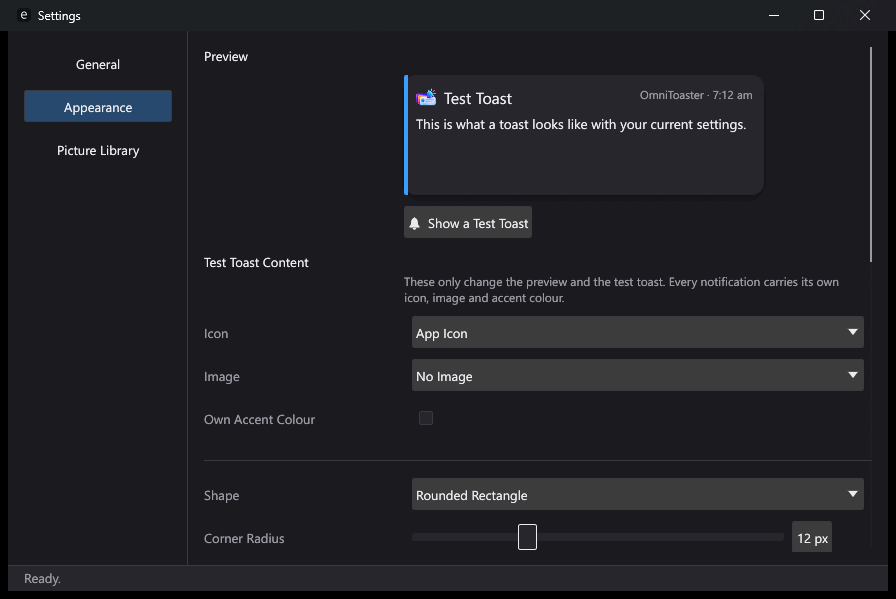
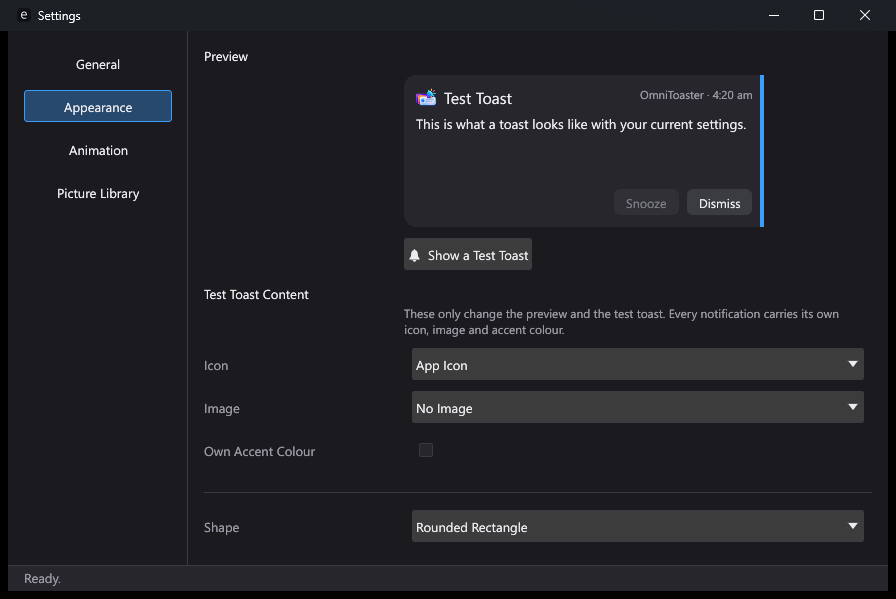
docs: close out Phase 3's paperwork - screenshots, GIFs, CHECKLIST
Retake the toast and Appearance screenshots (the action row, the taller
preview), add the glass toast, Settings > Animation in both languages and
the slide and Genie GIFs from a release build; write the Phase 3 rows of
the CHECKLIST with the checks left to the owner named; record what was
checked today in the ledger.

Refs: FEAT-0030, FEAT-0031, FEAT-0032, FEAT-0033, FEAT-0034, FEAT-0035, FEAT-0036, FEAT-0038

diff --git a/docs/TASKS.md b/docs/TASKS.md
@@ -186,7 +186,7 @@ make all three glass kinds from the accent policy's Acrylic.
 - [x] Docs: spec §5 and the viewport paragraph · CHANGELOG · GOTCHAS (in FEAT-0028's commit). README and CHECKLIST: nothing a user sees changed
 
 ### FEAT-0030 · Glass: None, Blur, Acrylic, Mica-like
-- **State:** In-Progress · **Spec:** docs/specs/toast.md §4.2 · **Phase:** 3
+- **State:** Completed · **Spec:** docs/specs/toast.md §4.2 · **Phase:** 3
 - **Branch:** feat/phase-3-glass-animations
 - **Depends on:** FEAT-0029
 - [x] `Glass` in `Style` (`none` by default, kebab-case in `settings.toml`; an unknown value loads as `none` with a warning) and the tint each kind lays over the blur — 45 %, 60 %, 88 %
@@ -197,12 +197,12 @@ make all three glass kinds from the accent policy's Acrylic.
 - [x] Test: the tint per kind; a gradient tints with its first colour; glass on the Rectangle only; glass turns the shadow off; settings round-trip; an unknown kind loads as None and keeps the rest; text colour under glass follows the first colour
 - [x] Gate: fmt · clippy -D warnings · test --workspace --locked -j 4 (224 passed) · deny check · --self-test
 - [x] App: `--data-dir ./tmp-data` — each kind over the striped window and over the desktop, in Dark and Light toast colours; a Rectangle with glass shows no shadow; Malay labels fit
-- [ ] Docs: spec · README · CHANGELOG · CHECKLIST · GOTCHAS
-- **Notes:** App, checked 2026-11-18 over a window of red and blue stripes (another process): Rectangle Blur, Acrylic and Mica-like each blur, graded, in a dark and a light toast colour; Rounded Rectangle and Pill stay solid with clean corners; the Rectangle with glass has no shadow; at 70 % opacity the blur fades too and the sharp stripes show faintly (spec §4.2); no glass warnings in the log. Over the ordinary desktop (a dark app window): Acrylic shows the blurred window, a light Blur toast keeps dark readable text. Appearance pane in Malay (Dark) and English (Light): the Glass row lines up, the dropdown is greyed with its hint on a rounded rectangle, both hints and the shadow's glass hint wrap inside the pane; the Blur preview's text reads in both themes. **Not checked:** the solid fallback after a refusal, which this Windows never gave; Windows 10; DPI above 100 %. Over OmniToaster's own settings window the blur samples black (GOTCHAS). Docs: spec, ADR-016 amendment, README and README.ms (the latter once FEAT-0037 created it, 2026-11-18), CHANGELOG and GOTCHAS done; the Docs box stays open because CHECKLIST moves at the end of the phase.
+- [x] Docs: spec · README · CHANGELOG · CHECKLIST · GOTCHAS
+- **Notes:** App, checked 2026-11-18 over a window of red and blue stripes (another process): Rectangle Blur, Acrylic and Mica-like each blur, graded, in a dark and a light toast colour; Rounded Rectangle and Pill stay solid with clean corners; the Rectangle with glass has no shadow; at 70 % opacity the blur fades too and the sharp stripes show faintly (spec §4.2); no glass warnings in the log. Over the ordinary desktop (a dark app window): Acrylic shows the blurred window, a light Blur toast keeps dark readable text. Appearance pane in Malay (Dark) and English (Light): the Glass row lines up, the dropdown is greyed with its hint on a rounded rectangle, both hints and the shadow's glass hint wrap inside the pane; the Blur preview's text reads in both themes. **Not checked:** the solid fallback after a refusal, which this Windows never gave; Windows 10; DPI above 100 %. Over OmniToaster's own settings window the blur samples black (GOTCHAS). Docs: spec, ADR-016 amendment, README and README.ms (the latter once FEAT-0037 created it, 2026-11-18), CHANGELOG and GOTCHAS done; the Docs box stayed open until the CHECKLIST moved at the end of the phase. Screenshots retaken and added when the phase closed, 2026-11-19 (`docs/screenshots/README.md`), and the CHECKLIST's Phase 3 rows written. `toast-glass.png` is a Rectangle with Acrylic over stripes.
 - **Owner decisions (2026-11-18):** glass for the Rectangle only; Blur at 45 % instead of "almost none".
 
 ### FEAT-0031 · The animation model and the toast timeline
-- **State:** In-Progress · **Spec:** docs/specs/toast.md §5 · **Phase:** 3
+- **State:** Completed · **Spec:** docs/specs/toast.md §5 · **Phase:** 3
 - **Branch:** feat/phase-3-glass-animations
 - **Depends on:** FEAT-0029
 - [x] `Animation` in `ToastSpec` and `Prefs`: in kind, out kind, duration (150–1000 ms, default 350, clamped in the model), easing (linear, ease-out, spring); defaults appear and ease-out; unknown words load as defaults with a warning; shrink to tray is out only
@@ -215,8 +215,8 @@ make all three glass kinds from the accent policy's Acrylic.
 - [x] Test: every stage boundary of the timeline; the countdown excludes the in-animation and hover; a toast dismissed mid-entry leaves from where it is; a toast waits for its window and starts anyway after a second; the stack slots while one leaves; the easing curves at 0, ½ and 1 and the spring's overshoot; the clamp; settings round-trip
 - [x] Gate: fmt · clippy -D warnings · test --workspace --locked -j 4 (234 passed) · deny check · --self-test
 - [x] App: `--data-dir ./tmp-data` — fire a test toast and watch it enter, hold for its whole duration and leave; dismiss one while it enters (done with FEAT-0038's Dismiss, 2026-11-18: dismissed 557 ms and 542 ms into a 1-second entry, each left in the same time, from where it had got to)
-- [ ] Docs: spec · README · CHANGELOG · CHECKLIST · GOTCHAS
-- **Notes:** App, checked 2026-11-18: three toasts over the stripes, 1000 ms linear, captured from 36 ms to 5.8 s — nothing on screen until each window was shaped, then a fade in over a second, three seconds held, a fade out with the stack collapsing toward the edge, then gone; no flash. Frame counts from the log (`--log-level debug`), three toasts, reference machine: **release** 137–444 fps for every in and out, settings window open or minimised; **debug** 62 fps open, 46–48 minimised. CPU: 6% of one core with three toasts held, 1% with none. **Not checked yet:** dismissing a toast while it enters — nothing in the app can dismiss one until FEAT-0038 builds the Dismiss button (the owner's choice, 2026-11-18); the model's own test covers it. The App box waits for that. Hovering does nothing on screen yet: BUG-0009. CHECKLIST moves at the end of the phase; no README change, since the README already lists the animations.
+- [x] Docs: spec · README · CHANGELOG · CHECKLIST · GOTCHAS
+- **Notes:** App, checked 2026-11-18: three toasts over the stripes, 1000 ms linear, captured from 36 ms to 5.8 s — nothing on screen until each window was shaped, then a fade in over a second, three seconds held, a fade out with the stack collapsing toward the edge, then gone; no flash. Frame counts from the log (`--log-level debug`), three toasts, reference machine: **release** 137–444 fps for every in and out, settings window open or minimised; **debug** 62 fps open, 46–48 minimised. CPU: 6% of one core with three toasts held, 1% with none. **Not checked yet:** dismissing a toast while it enters — nothing in the app can dismiss one until FEAT-0038 builds the Dismiss button (the owner's choice, 2026-11-18); the model's own test covers it. The App box waits for that. Hovering does nothing on screen yet: BUG-0009. No README text change, since the README already lists the animations. Screenshots retaken and added when the phase closed, 2026-11-19 (`docs/screenshots/README.md`), and the CHECKLIST's Phase 3 rows written.
 
 ### FEAT-0032 · Slide from right, slide from bottom, drawer, pop out, appear
 - **State:** In-Progress · **Spec:** docs/specs/toast.md §5 · **Phase:** 3
@@ -233,11 +233,11 @@ make all three glass kinds from the accent policy's Acrylic.
 - [x] Test: every effect rests exactly where the toast belongs; at every preset, slides and drawers start hidden, a pop at 30% and the fades at alpha 0; a slide starts beyond the edge and is clipped to the work area at ½; a drawer's shift and visible half for every edge, against a table; a pop's scale at 0 and ½ and every frame of a spring inside the window; only a pop has a margin
 - [x] Gate: fmt · clippy -D warnings · test --workspace --locked -j 4 (248 passed) · deny check · --self-test
 - [ ] App: `--data-dir ./tmp-data` — each in and out at every corner, at 100% and 150% scaling; frame counts in a release build
-- [ ] Docs: spec · README · CHANGELOG · CHECKLIST · GOTCHAS
-- **Notes:** App, checked 2026-11-18 at the default Bottom Right with three toasts, 1-second linear runs (spring for one pop run) captured every 100 ms with the taskbar in frame: slide from right enters from beyond the screen's edge; slide from bottom rises from the taskbar's top edge and never draws over it; the drawer opens out of the right-hand edge and closes back into it; pop grows from small and faint at the centre and shrinks back; appear fades. Clicking where Dismiss rests, while a drawer was still opening, dismissed nothing (the pointer mapped to the body); at rest it dismissed. Release build, three toasts at 350 ms: slide 143–312 fps, drawer 174–361, pop 158–285. **Not checked:** the other eight corners and edges on screen (the preset test covers their geometry), and 150% on screen (GOTCHAS: `--ui-scale`). When three toasts slide in from the same edge together they pass over one another; a single toast does not. A faint white box at the very start of every fade, visible over a light background, predates these effects: BUG-0010.
+- [x] Docs: spec · README · CHANGELOG · CHECKLIST · GOTCHAS
+- **Notes:** App, checked 2026-11-18 at the default Bottom Right with three toasts, 1-second linear runs (spring for one pop run) captured every 100 ms with the taskbar in frame: slide from right enters from beyond the screen's edge; slide from bottom rises from the taskbar's top edge and never draws over it; the drawer opens out of the right-hand edge and closes back into it; pop grows from small and faint at the centre and shrinks back; appear fades. Clicking where Dismiss rests, while a drawer was still opening, dismissed nothing (the pointer mapped to the body); at rest it dismissed. Release build, three toasts at 350 ms: slide 143–312 fps, drawer 174–361, pop 158–285. **Not checked:** the other eight corners and edges on screen (the preset test covers their geometry), and 150% on screen (GOTCHAS: `--ui-scale`). When three toasts slide in from the same edge together they pass over one another; a single toast does not. **2026-11-19, the other eight positions:** each preset run with drawer, three toasts, the toast windows' rectangles read every 40 ms (no screen capture): every one rests inside the work area with the 16-point margin — Top Left 16,16; Top 1740,16; Top Right 3464,16; Left 16,956; Centre 1740,956; Right 3464,956; Bottom Left 16,1896; Bottom 1740,1896; Bottom Right 3464,1896 on a 3840 × 2064 work area — the stack grows away from its edge and glides back into place when the first toast leaves. Which edge a drawer opens from at each preset is the preset test's (`a_drawer_opens_from_the_edge_the_toast_sits_against`); it was seen on screen at Bottom Right only. **The App box stays open for one check this session cannot make: 150% on screen**, which needs Windows' display scaling changed (the owner's). A faint white box at the very start of every fade, visible over a light background, predates these effects: BUG-0010.
 
 ### FEAT-0033 · Dissolve, glow and alpha to solid
-- **State:** In-Progress · **Spec:** docs/specs/toast.md §5 · **Phase:** 3
+- **State:** Completed · **Spec:** docs/specs/toast.md §5 · **Phase:** 3
 - **Branch:** feat/phase-3-glass-animations
 - **Depends on:** FEAT-0031
 - [x] Dissolve: a noise mask that eats or grows the toast, generated once per toast size and cached (`effects::noise_for`); the window's region is cut to the cells that show, joined into runs per row and built in one `ExtCreateRegion` call
@@ -247,9 +247,9 @@ make all three glass kinds from the accent policy's Acrylic.
 - [x] Windows' shadow waits while a halo or a part-solid background needs the window see-through (`Look::shadow_ok`)
 - [x] Test: the noise is made once per grid (the same `Arc`), the cells grow in order, cover the toast at the end and about half at half way, and never overlap; the halo stays inside the window at every frame of a spring, alone and beside a pop, and has settled on arrival; alpha to solid keeps its text and ends at the toast's own opacity; every preset starts each effect hidden or bare
 - [x] Gate: fmt · clippy -D warnings · test --workspace --locked -j 4 (251 passed) · deny check · --self-test
-- [ ] App: `--data-dir ./tmp-data` — each in and out over the striped window, in Dark and Light toast colours; frame counts in a release build
-- [ ] Docs: spec · README · CHANGELOG · CHECKLIST · GOTCHAS
-- **Notes:** App, checked 2026-11-18 with three toasts, 1-second linear runs captured every 100 ms: dissolve builds up grain by grain and comes apart in reverse; glow's blue halo shows around each toast over the Light and the Dark settings window and has gone when it arrives; alpha to solid shows crisp text over a part-solid background, the Rectangle included. Release build, three toasts at 350 ms: dissolve 123–299 fps (56.6 at worst before the cells were joined into runs), glow 146–289, alpha to solid 126–552. **Not checked:** the effects over the stripes in a Light toast colour (the toasts were Dark); the other eight positions on screen.
+- [x] App: `--data-dir ./tmp-data` — each in and out over the striped window, in Dark and Light toast colours; frame counts in a release build
+- [x] Docs: spec · README · CHANGELOG · CHECKLIST · GOTCHAS
+- **Notes:** App, checked 2026-11-18 with three toasts, 1-second linear runs captured every 100 ms: dissolve builds up grain by grain and comes apart in reverse; glow's blue halo shows around each toast over the Light and the Dark settings window and has gone when it arrives; alpha to solid shows crisp text over a part-solid background, the Rectangle included. Release build, three toasts at 350 ms: dissolve 123–299 fps (56.6 at worst before the cells were joined into runs), glow 146–289, alpha to solid 126–552. **2026-11-19, a Light toast colour** (`background` set to near-white in `[toast.style]`), dissolve, glow and alpha to solid captured every ~35 ms over the Light settings window: the text turns dark on the light background, the glow's halo shows in the accent colour and has settled on arrival, dissolve's grains build the light toast, alpha to solid keeps its text crisp while the background comes in; no white box. The light runs were over the Light settings window rather than the stripes. The eight other positions: see FEAT-0032's notes. Screenshots retaken and added when the phase closed, 2026-11-19 (`docs/screenshots/README.md`), and the CHECKLIST's Phase 3 rows written.
 
 ### FEAT-0034 · Genie from bottom, and shrink to tray
 - **State:** In-Progress · **Spec:** docs/specs/toast.md §5 · §12 question 2 · **Phase:** 3
@@ -262,8 +262,8 @@ make all three glass kinds from the accent policy's Acrylic.
 - [x] Test: the bands at t = 0 (all hidden below the work area), ½ (the top band in place, the bottom one narrow) and 1 (no warp, the toast where it belongs); every frame's bands touch with no gap and what shows is inside the window; shrink to tray heads for the icon, or the corner without one, and the window covers that path; at every preset both start hidden; two masks of the same size in different places are told apart
 - [x] Gate: fmt · clippy -D warnings · test --workspace --locked -j 4 (254 passed) · deny check · --self-test
 - [ ] App: `--data-dir ./tmp-data` — Genie in and out at each corner, with the tray icon visible and hidden in the overflow; frame counts in a release build
-- [ ] Docs: spec · README · CHANGELOG · CHECKLIST · GOTCHAS
-- **Notes:** App, checked 2026-11-19 with three toasts at Bottom Right, 1-second linear runs captured every 100 ms: Genie pours each toast out of the bottom edge, top first, and sinks it back on the way out; shrink to tray pours them down and right into the corner and they vanish at the taskbar. Release build, three toasts at 350 ms: Genie in 189–277 fps, shrink to tray out 97–316, twice. Once in three shrink-to-tray runs the toasts showed at full strength for a frame before their fade; the next two runs did not, and plain Appear did not — recorded, not reproduced. **Not checked:** whether Windows gave the tray icon's position or the corner was used, and the icon visible versus in the overflow — that is the owner's taskbar setting, not changed here; the other eight positions on screen.
+- [x] Docs: spec · README · CHANGELOG · CHECKLIST · GOTCHAS
+- **Notes:** App, checked 2026-11-19 with three toasts at Bottom Right, 1-second linear runs captured every 100 ms: Genie pours each toast out of the bottom edge, top first, and sinks it back on the way out; shrink to tray pours them down and right into the corner and they vanish at the taskbar. Release build, three toasts at 350 ms: Genie in 189–277 fps, shrink to tray out 97–316, twice. Once in three shrink-to-tray runs the toasts showed at full strength for a frame before their fade; the next two runs did not, and plain Appear did not — recorded, not reproduced. **Not checked:** whether Windows gave the tray icon's position or the corner was used, and the icon visible versus in the overflow — that is the owner's taskbar setting, not changed here; the other eight positions on screen (placement at every preset: FEAT-0032's notes). **The App box stays open for the owner's check** of shrink to tray with the icon in the tray and in the overflow. Screenshots retaken and added when the phase closed, 2026-11-19 (`docs/screenshots/README.md`), and the CHECKLIST's Phase 3 rows written. `anim-genie.gif` is Genie from bottom, release build.
 
 ### FEAT-0035 · Reduced motion and the 30 fps fallback
 - **State:** In-Progress · **Spec:** docs/specs/toast.md §5 · **Phase:** 3
@@ -275,11 +275,11 @@ make all three glass kinds from the accent policy's Acrylic.
 - [x] Test: the fallback triggers on a steady series of 50 ms frames and not on one 200 ms frame among 16 ms ones; the next toast starts as a fade and the one after does not; the floor forces it; reduced motion — Windows' or the setting — maps every kind to a fade, and neither leaves the toast's own effect; Windows answers the query
 - [x] Gate: fmt · clippy -D warnings · test --workspace --locked -j 4 (259 passed) · deny check · --self-test
 - [ ] App: `--data-dir ./tmp-data` — Windows' setting off and on, watching a toast; the fallback forced, watching a toast and reading the log
-- [ ] Docs: spec · README · CHANGELOG · CHECKLIST · GOTCHAS
-- **Notes:** App, checked 2026-11-19 with slide from right: `--reduce-motion` — the toasts fade in place; `--slow-frames` — they start to slide in, then finish as a fade where they rest, and the log names each with "fell below 30 fps … frame_ms=57". The debug build also triggered the real fallback on its own in one run, at 28.8 fps. **Not checked:** turning Windows' own "Show animations" off and on — that is a system setting this session does not change; `--reduce-motion` stands in for it, and the platform test shows Windows answers the query. The App box stays open for the owner's check of that switch. A full-strength flash on a toast's first visible frame, seen in one of these runs, is BUG-0012.
+- [x] Docs: spec · README · CHANGELOG · CHECKLIST · GOTCHAS
+- **Notes:** App, checked 2026-11-19 with slide from right: `--reduce-motion` — the toasts fade in place; `--slow-frames` — they start to slide in, then finish as a fade where they rest, and the log names each with "fell below 30 fps … frame_ms=57". The debug build also triggered the real fallback on its own in one run, at 28.8 fps. **Not checked:** turning Windows' own "Show animations" off and on — that is a system setting this session does not change; `--reduce-motion` stands in for it, and the platform test shows Windows answers the query. The App box stays open for the owner's check of that switch. Screenshots retaken and added when the phase closed, 2026-11-19 (`docs/screenshots/README.md`), and the CHECKLIST's Phase 3 rows written. A debug build under a capture loop fell back on its own again on 2026-11-19 (28.2 fps, logged), which is why the GIFs were recorded from a release build (GOTCHAS, Testing). A full-strength flash on a toast's first visible frame, seen in one of these runs, is BUG-0012.
 
 ### FEAT-0036 · Settings ▸ Animation
-- **State:** In-Progress · **Spec:** docs/04-ui-design.md · docs/specs/toast.md §5 · **Phase:** 3
+- **State:** Completed · **Spec:** docs/04-ui-design.md · docs/specs/toast.md §5 · **Phase:** 3
 - **Branch:** feat/phase-3-glass-animations
 - **Depends on:** FEAT-0031
 - [x] The pane the UI design names (`ot_ui::animation::controls`, `Section::Animation`): Animation In, Animation Out, Duration (a slider, 150–1000 ms in steps of 10), Easing, and Reduce Motion, with a line under it saying whether Windows' own "Show animations" is on, or that every animation fades; Windows' setting re-read every five seconds for the pane as well as for the toasts
@@ -287,9 +287,9 @@ make all three glass kinds from the accent policy's Acrylic.
 - [x] Every label a Fluent key in both languages, with a translator comment each — 9 pane keys, 10 effects, 3 easings — laid out for the longest Malay string; the pane saves when the pointer is released, as Appearance does
 - [x] Test: the layout test lays the Animation controls out with Appearance's, in English, Malay and the pseudo-locale, at the default and the narrow width, at 100%, 150% and 200% — nothing runs past the pane; settings round-trip with every animation field; every key is in both catalogues
 - [x] Gate: fmt · clippy -D warnings · test --workspace --locked -j 4 (259 passed) · deny check · --self-test
-- [ ] App: `--data-dir ./tmp-data` — choose each animation and press Play, in both languages and all three themes; the narrow window
-- [ ] Docs: spec · README · CHANGELOG · CHECKLIST · GOTCHAS
-- **Notes:** App, checked 2026-11-19: the pane in English and Dark, in Malay and Light with Reduce Motion ticked and Jin dari Bawah chosen, and in Malay and Dark at the 560-pixel minimum, where each label stacks above its field and the Windows hint wraps; every row on one middle line; the ▶ glyph seen drawn. Play with Slide from Right fired a test toast that was caught mid-slide. **Not checked:** each of the ten effects through Play from the pane (each was watched on screen under FEAT-0032 to FEAT-0034 through the settings file instead), the System theme, and 150% on screen. README and README.ms describe the pane; the README screenshots are retaken with the phase's other screens before the merge.
+- [x] App: `--data-dir ./tmp-data` — choose each animation and press Play, in both languages and all three themes; the narrow window
+- [x] Docs: spec · README · CHANGELOG · CHECKLIST · GOTCHAS
+- **Notes:** App, checked 2026-11-19: the pane in English and Dark, in Malay and Light with Reduce Motion ticked and Jin dari Bawah chosen, and in Malay and Dark at the 560-pixel minimum, where each label stacks above its field and the Windows hint wraps; every row on one middle line; the ▶ glyph seen drawn. Play with Slide from Right fired a test toast that was caught mid-slide. **2026-11-19, Play for every in-animation:** each of the nine chosen and Play pressed, the toast captured 350 ms later and the log's "a test toast was fired" read — slide from right (English, Dark), slide from bottom (Malay, Light), drawer (English, System), pop out (Malay, Dark), appear (English, Light), dissolve (Malay, System) with its grains still showing, glow (English, Dark) with its halo, alpha to solid (Malay, Light), Genie from bottom (English, System); shrink to tray is out only. The pane itself in the System theme follows Windows, which is Dark here; Windows' own theme switch, which System follows, was checked in Phase 1 (CR-0002) and not toggled here. **Not checked:** 150% on screen (FEAT-0032). Screenshots retaken and added when the phase closed, 2026-11-19 (`docs/screenshots/README.md`), and the CHECKLIST's Phase 3 rows written. `settings-animation.png` and `-ms.png`. README and README.ms describe the pane and show it.
 
 ### BUG-0009 · Hovering a toast does not pause its countdown
 - **State:** Completed · **Spec:** docs/specs/toast.md §6 · **Phase:** 3
@@ -358,8 +358,8 @@ make all three glass kinds from the accent policy's Acrylic.
 - [x] Test: the row fits every shape at the narrowest and default widths in English, Malay and the pseudo-locale, at 100%, 150% and 200%, with Dismiss rightmost; the layout never leaves its row however long the labels; the body gives up exactly the row; only Dismiss works yet. The click itself is checked in the app: it is read from the toast window's own input against the rects the renderer returns
 - [x] Gate: fmt · clippy -D warnings · test --workspace --locked -j 4 (241 passed) · deny check · --self-test
 - [ ] App: `--data-dir ./tmp-data` — Dismiss on a holding toast and on one still entering (FEAT-0031's open check), in both languages and at 150% scaling
-- [ ] Docs: spec · README · CHANGELOG · CHECKLIST · GOTCHAS
-- **Notes:** App, checked 2026-11-18 with three sample toasts (1 s fade, 8 s hold) and clicks at the computed button positions: in English and in Malay, Dismiss on the bottom toast while it entered (557 ms and 542 ms in) made it leave from there in the same time; the stack closed up; Dismiss on the toast then in the second place, while holding, made that one leave over the full second; Snooze ("Tunda") drawn greyed; hover lit Dismiss without moving it. **Not checked: 150% on screen.** `--ui-scale 1.5` places toasts off the screen (GOTCHAS, Testing), and real 150% means changing Windows' display scaling, which this session does not do; the layout test runs at 150% and 200% instead. The App box stays open for that. README and README.ms describe the row; their screenshots predate it and are retaken with the phase's other screen changes before the merge. CHECKLIST moves at the end of the phase.
+- [x] Docs: spec · README · CHANGELOG · CHECKLIST · GOTCHAS
+- **Notes:** App, checked 2026-11-18 with three sample toasts (1 s fade, 8 s hold) and clicks at the computed button positions: in English and in Malay, Dismiss on the bottom toast while it entered (557 ms and 542 ms in) made it leave from there in the same time; the stack closed up; Dismiss on the toast then in the second place, while holding, made that one leave over the full second; Snooze ("Tunda") drawn greyed; hover lit Dismiss without moving it. **Not checked: 150% on screen.** `--ui-scale 1.5` places toasts off the screen (GOTCHAS, Testing), and real 150% means changing Windows' display scaling, which this session does not do; the layout test runs at 150% and 200% instead. The App box stays open for that. README and README.ms describe the row. Screenshots retaken and added when the phase closed, 2026-11-19 (`docs/screenshots/README.md`), and the CHECKLIST's Phase 3 rows written. Every toast screenshot now shows the row.
 
 ## v0.2.1 — Done 2026-11-16
 

diff --git a/docs/screenshots/README.md b/docs/screenshots/README.md
@@ -1,6 +1,6 @@
 # Screenshots and GIFs
 
-**Last updated:** 2026-11-08
+**Last updated:** 2026-11-19
 
 What goes in this folder, how to capture it, and when it has to be retaken.
 The root [README.md](../../README.md) and the bilingual user guide are the only
@@ -8,7 +8,7 @@ consumers.
 
 ## Status
 
-**Nine captured so far:** `toast-dark.png`, `toast-light.png` and `toast-shapes.png`, real toasts captured from the screen over the app's own settings window (so no desktop shows), from a debug build on a scratch `--data-dir`, when Phase 2 closed; and `settings-appearance.png` and `settings-appearance-ms.png` on a fresh scratch folder; `settings-pictures.png` and `settings-pictures-ms.png`, the Picture Library in both languages, taken from a debug build on a scratch `--data-dir` when FEAT-0025 landed, with three plain coloured test pictures; and `settings-general.png` and `settings-general-ms.png`,
+**Fourteen captured so far.** When Phase 3 closed: `toast-dark.png`, `toast-light.png`, `toast-shapes.png` (retaken, now with the action row) and `toast-glass.png`, real toasts captured from the screen over a plain backdrop window of the capture script's own — dark, light, or red and blue stripes for glass — which covers the screen's corner so no desktop shows, each cropped to its toast's window from a debug build on a scratch `--data-dir`; `anim-slide.gif` and `anim-genie.gif`, one toast fired with Show a Test Toast in a **release** build (a debug build under a capture loop drops below 30 fps and the app rightly finishes the animation as a fade), framed every ~45 ms over the dark backdrop and played back at the captured intervals; and `settings-appearance.png`, `settings-appearance-ms.png` (retaken: the taller preview), `settings-animation.png` and `settings-animation-ms.png` on a fresh scratch folder; `settings-pictures.png` and `settings-pictures-ms.png`, the Picture Library in both languages, taken from a debug build on a scratch `--data-dir` when FEAT-0025 landed, with three plain coloured test pictures; and `settings-general.png` and `settings-general-ms.png`,
 the Settings ▸ General pane in both languages, taken from a release build on a
 scratch `--data-dir` when FEAT-0014 landed. Everything else below is still a
 placeholder name reserved for the phase that first produces that screen; the
@@ -24,14 +24,16 @@ quantised with `magick <in> -strip -colors 256 -define png:compression-level=9
 
 | File | Shows | First captured in |
 |---|---|---|
-| `toast-dark.png` | The test toast, rounded rectangle, over a Dark window | Phase 2 (captured) |
-| `toast-light.png` | The same toast over a Light window | Phase 2 (captured) |
-| `toast-glass.png` | The Acrylic/Mica glass look | Phase 3 |
-| `toast-shapes.png` | Rectangle, rounded and pill side by side | Phase 2 (captured) |
+| `toast-dark.png` | The test toast, rounded rectangle, over a Dark window | Phase 2 (captured; retaken in Phase 3) |
+| `toast-light.png` | The same toast over a Light window | Phase 2 (captured; retaken in Phase 3) |
+| `toast-glass.png` | A Rectangle toast with Acrylic glass over stripes | Phase 3 (captured) |
+| `toast-shapes.png` | Rectangle, rounded and pill side by side | Phase 2 (captured; retaken in Phase 3) |
 | `settings-general.png` | Settings ▸ General, English | Phase 1 |
 | `settings-general-ms.png` | Settings ▸ General, Bahasa Melayu | Phase 1 |
-| `settings-appearance.png` | Settings ▸ Appearance with the live preview | Phase 2 (captured) |
-| `settings-appearance-ms.png` | The same, Bahasa Melayu | Phase 2 (captured) |
+| `settings-appearance.png` | Settings ▸ Appearance with the live preview | Phase 2 (captured; retaken in Phase 3) |
+| `settings-appearance-ms.png` | The same, Bahasa Melayu | Phase 2 (captured; retaken in Phase 3) |
+| `settings-animation.png` | Settings ▸ Animation, English | Phase 3 (captured) |
+| `settings-animation-ms.png` | The same, Bahasa Melayu | Phase 3 (captured) |
 | `settings-pictures.png` | Settings ▸ Picture Library: two uploaded pictures and the built-in ones, English | Phase 2 (captured; retaken for FEAT-0027) |
 | `settings-pictures-ms.png` | The same, Bahasa Melayu | Phase 2 (captured; retaken for FEAT-0027) |
 | `settings-prayer.png` | Settings ▸ Prayer with the zone picker and source label | Phase 5 |
@@ -39,8 +41,8 @@ quantised with `magick <in> -strip -colors 256 -define png:compression-level=9
 | `tray-menu.png` | The tray menu, both languages | Phase 1 |
 | `azan-toast.png` | An Azan toast with the JAKIM source label | Phase 5 |
 | `weather-toast.png` | A weather-change toast | Phase 6 |
-| `anim-slide.gif` | The slide-in and slide-out animation | Phase 3 |
-| `anim-genie.gif` | The Genie animation | Phase 3 |
+| `anim-slide.gif` | The slide-in and slide-out animation | Phase 3 (captured) |
+| `anim-genie.gif` | The Genie animation | Phase 3 (captured) |
 | `flow-first-run.gif` | First run: consent, location, zone confirmation | Phase 5 |
 | `flow-create-reminder.gif` | Creating a reminder and watching it fire | Phase 4 |
 | `flow-language-switch.gif` | Switching language live, tray and settings | Phase 1 |

diff --git a/docs/GOTCHAS.md b/docs/GOTCHAS.md
@@ -160,6 +160,7 @@ Nothing recorded yet.
 - **`egui_kittest` reports a widget's bounds in physical pixels, and the pane you compare them with is in points.** The first Appearance layout test compared them as they came and reported 123 overflows at 1.5x and 2x, every one of them the scale factor. Divide the accesskit `bounding_box()` by the scale first, and use it rather than `node.rect()`, which panics on a node with no bounds. And prove the detection can fail: a test that finds a 500-point button in a 300-point pane is what makes a green layout test mean something (`crates/ot-ui/tests/layout.rs`). The same holds for the pseudo-locale pass: assert the switch reached the strings, or it measures plain Malay twice.
 - **A capture script's own shortcuts can look exactly like an app bug.** Checking FEAT-0032, three harness mistakes each produced a toast that seemed broken: `Process.MainWindowHandle` was a **toast**, not the settings window, so "minimise the settings window" minimised a toast to 160 × 28 and it showed as a sliver; a stripes window shown topmost then demoted sat **in front of** moving toast windows, so slides looked invisible; and in PowerShell `$s` **is** `$S` (names ignore case), so a scale variable overwrote the scratch path. And a WinForms window with `TopMost = true`, shown from a PowerShell script, was **not** on top — `WindowFromPoint` found Chrome over it — until `SetWindowPos(HWND_TOPMOST)` was called after `Show()`; the "white box" of BUG-0010 came from runs like that and did not reproduce once the background was really there. Find windows by title, force a background window topmost and check with `WindowFromPoint`, measure (a patch's brightness per frame) rather than eyeball thumbnails, and read the app's own log (each outline it applied is there) before believing a screenshot.
 - **`--ui-scale` cannot check toasts at 150%: it puts them off the screen.** It forces egui's scale while the monitor stays at 100%, so a toast placed in points at the work area's corner lands half as far again from the origin — past the screen's edge. It is the layout half of a DPI check and says so; for toasts, test the layout at 1.5 and 2.0 pixels per point (`the_action_row_fits_every_shape_and_width_in_every_language`) and leave the on-screen check at real scaling to a machine set to it (FEAT-0038).
+- **Record an animation from a release build, never a debug one.** A debug build with a capture loop beside it drops below 30 fps, and the frame-time fallback then does its job — the toast finishes as a fade and the log says "fell below 30 fps" — so the recording shows a fade, not the effect chosen. `--test-toast` is debug-only, so in a release build fire the toast with Show a Test Toast, and start that click in a process of its own: a click helper that blocks the capture loop misses the whole entry. Check the log for the fallback line before trusting a recording. And a backdrop shown topmost **after** the toasts can sit above them; raise the toast windows again before each capture (Phase 3 screenshots).
 - **Dropping a `tracing-appender` guard is not a flush you can rely on.** `WorkerGuard::drop` waits about 1.1 s for the background writer and then returns silently, so code that drops the guard and immediately reads the log file can find it empty when the writer thread is starved. The self-test did exactly that and failed 4 runs in 20 under above-normal-priority load (BUG-0006). Look for the line with a bounded wait instead, and reproduce a starvation flake with load at *raised* priority — Normal-priority busy loops on every core did not reproduce it at all.
 - **The CI runner is a service with no desktop session, and Windows shows it different monitors.** A test asserting that every monitor has a display number passed at the desk and failed in CI (run 60): numbers come from names like `\\.\DISPLAY2`, and a service sees a virtual monitor under another name. The CI log could not be read from here, so the cause was tested by fixing it and pushing; run 61 went green. Assert what Windows guarantees in every session, not what this desk shows.
 - **A flaky test is a failure you have not localised yet.** It is tempting to re-run and move on when the second run is green. The first run was the honest one.

diff --git a/docs/CHECKLIST.md b/docs/CHECKLIST.md
@@ -7,7 +7,7 @@ exit criteria under each heading are that phase's own, and no row in a phase may
 read `Completed` until they all hold. The work itself, by id, is in
 [TASKS.md](TASKS.md).
 
-Last updated: 2026-11-15
+Last updated: 2026-11-19
 
 ## Planning
 > **Done when:** the scaffolding and the specifications describe OmniToaster and point only at files that exist; no reference to the HyperStack project remains.
@@ -111,16 +111,32 @@ Last updated: 2026-11-15
 
 ## Phase 3 — Glass and Animations
 > **Exit criteria:** each animation runs at 60 fps on reference hardware and falls back cleanly.
+>
+> **As of 2026-11-19, demonstrated on this machine, with three checks left to
+> the owner.** *60 fps:* every in- and out-animation was counted from the log
+> in a release build with three toasts on screen — the lowest of any run was
+> shrink to tray out at 97 fps, every other effect 123 fps or more (FEAT-0031
+> to FEAT-0034). This is the development machine; whether it is the reference
+> hardware the criterion means is the owner's to say. *Falls back cleanly:*
+> the frame-time fallback was forced (`--slow-frames`) and also triggered on its
+> own in a loaded debug build: the toast finished as a fade where it was, the
+> next one started as one, and the log named it (FEAT-0035). Reduce Motion in
+> the app and `--reduce-motion` turn every effect into a fade. **Not made
+> here:** Windows' own "Show animations" switch turned off and on (FEAT-0035),
+> shrink to tray with the tray icon in the overflow (FEAT-0034), and any
+> animation at real 150% display scaling (FEAT-0032, FEAT-0038) — each is a
+> system setting this session does not change. The rows they belong to stay
+> In-Progress until the owner has made them.
 
 | Item | State | Notes |
 |---|---|---|
-| Blur | Pending | |
-| Acrylic | Pending | |
-| Mica-like | Pending | Windows 10 1809+ |
-| In animations | Pending | Slide right, slide bottom, Genie, pop out, drawer, appear, dissolve, glow, alpha-to-solid |
-| Out animations | Pending | Mirrors, plus shrink to tray |
-| Reduced-motion fallback | Pending | Follows the Windows "Show animations" setting |
-| Frame-time fallbacks | Pending | Fade below 30 fps |
+| Blur | Completed | FEAT-0030. Rectangle only (owner, 2026-11-18): the desktop blurred under 45 % of the toast's colour; the other shapes are greyed out with the reason |
+| Acrylic | Completed | FEAT-0030. 60 %; `docs/screenshots/toast-glass.png` |
+| Mica-like | Completed | FEAT-0030. 88 %; Windows 10 1809+. Checked on Windows 11 only — the solid fallback after a refusal was never needed here, and Windows 10 was not available |
+| In animations | In-Progress | FEAT-0032 to FEAT-0034, FEAT-0036. All nine, each seen on screen, fired from Settings ▸ Animation ▸ Play, and placed inside the work area at every one of the nine positions; 123 fps or more in a release build with three toasts. Open: real 150% scaling (owner) |
+| Out animations | In-Progress | The nine mirrors, plus shrink to tray (97 fps or more). Open: shrink to tray with the icon in the overflow (owner) |
+| Reduced-motion fallback | In-Progress | FEAT-0035, FEAT-0036. Windows' setting is read every five seconds and stated in the pane; Reduce Motion and `--reduce-motion` fade every effect. Open: Windows' own switch turned off and on (owner) |
+| Frame-time fallbacks | Completed | FEAT-0035. Below 30 fps — the median of six frames — the toast finishes as a fade and the next starts as one, logged; forced and seen happen unforced |
 
 ## Phase 4 — Scheduler and Reminders
 > **Exit criteria:** the scheduling tests pass, reminders fire within one second of target, and the date format is correct for each language.

diff --git a/README.ms.md b/README.ms.md
@@ -252,6 +252,19 @@ Toast yang sama di atas tetingkap cerah ialah
 [toast-light.png](docs/screenshots/toast-light.png): toast mengekalkan warnanya
 sendiri walau apa pun tema tetingkap itu.
 
+Toast Segi Empat Tepat dengan kaca Akrilik: desktop di belakangnya — di sini
+tetingkap berjalur — dikaburkan oleh Windows di bawah 60 % warna toast itu:
+
+![Toast segi empat tepat dengan kaca Akrilik di atas tetingkap berjalur](docs/screenshots/toast-glass.png)
+
+Gelongsor dari Kanan, masuk dan keluar, dan Jin dari Bawah, yang mencurah keluar
+dari tepi bawah skrin berjalur-jalur — kedua-duanya dirakam daripada binaan
+keluaran:
+
+![Toast menggelongsor masuk dari kanan, kekal, dan menggelongsor keluar](docs/screenshots/anim-slide.gif)
+
+![Toast mencurah naik dari tepi bawah dan kembali turun ke dalamnya](docs/screenshots/anim-genie.gif)
+
 Tetapan ▸ Umum, skrin pertama aplikasi ini:
 
 ![Tetapan ▸ Umum dalam tema Gelap](docs/screenshots/settings-general.png)
@@ -265,6 +278,14 @@ sebenar:
 ![Tetapan ▸ Penampilan dengan pratonton langsung](docs/screenshots/settings-appearance.png)
 
 Dalam bahasa Melayu: [settings-appearance-ms.png](docs/screenshots/settings-appearance-ms.png).
+
+Tetapan ▸ Animasi, tempat animasi masuk dan keluar, tempoh dan pelonggarannya
+dipilih, tetapan animasi Windows sendiri dinyatakan di bawah Kurangkan Gerakan,
+dan Mainkan memaparkan toast ujian dengannya:
+
+![Tetapan ▸ Animasi](docs/screenshots/settings-animation.png)
+
+Dalam bahasa Melayu: [settings-animation-ms.png](docs/screenshots/settings-animation-ms.png).
 
 Tetapan ▸ Pustaka Gambar, tempat gambar dimuat naik sekali dan dinamakan,
 dengan gambar yang disertakan bersama aplikasi disenaraikan di bawahnya:
@@ -280,10 +301,8 @@ diambil apabila fasanya siap:
 
 | Imej | Menunjukkan | Dalam fasa |
 |---|---|---|
-| `docs/screenshots/toast-glass.png` | Kesan kaca Akrilik | Fasa 3 |
 | `docs/screenshots/tray-menu.png` | Ikon dulang dan menunya | Fasa 1 |
 | `docs/screenshots/settings-prayer.png` | Tetapan → Solat, pengesahan zon dan label sumber | Fasa 5 |
-| `docs/screenshots/animation-in.gif` | Animasi masuk dan keluar | Fasa 3 |
 | `docs/screenshots/flow-reminder.gif` | Mencipta peringatan dan melihatnya dipaparkan | Fasa 4 |
 
 Setiap tangkapan skrin diambil dalam bahasa Inggeris dan bahasa Melayu sebelum

diff --git a/README.md b/README.md
@@ -232,6 +232,18 @@ The same toast over a light window is
 [toast-light.png](docs/screenshots/toast-light.png): a toast keeps its own
 colours whatever the window's theme.
 
+A Rectangle toast with Acrylic glass: the desktop behind it — here a striped
+window — blurred by Windows under 60 % of the toast's colour:
+
+![A Rectangle toast with Acrylic glass over a striped window](docs/screenshots/toast-glass.png)
+
+Slide from right, in and out, and Genie from bottom, pouring out of the screen's
+bottom edge in bands — both recorded from a release build:
+
+![A toast sliding in from the right, holding, and sliding out](docs/screenshots/anim-slide.gif)
+
+![A toast pouring up out of the bottom edge and back down into it](docs/screenshots/anim-genie.gif)
+
 Settings ▸ General, the first screen the app has:
 
 ![Settings ▸ General in the Dark theme](docs/screenshots/settings-general.png)
@@ -244,6 +256,14 @@ Settings ▸ Appearance, where the preview is drawn by the same code as a real t
 ![Settings ▸ Appearance with the live preview](docs/screenshots/settings-appearance.png)
 
 In Bahasa Melayu: [settings-appearance-ms.png](docs/screenshots/settings-appearance-ms.png).
+
+Settings ▸ Animation, where the in and out animations, their duration and
+easing are chosen, Windows' own animation setting is stated under Reduce
+Motion, and Play fires a test toast with them:
+
+![Settings ▸ Animation](docs/screenshots/settings-animation.png)
+
+In Bahasa Melayu: [settings-animation-ms.png](docs/screenshots/settings-animation-ms.png).
 
 Settings ▸ Picture Library, where pictures are uploaded once and named, with
 the ones that ship with the app listed below them:
@@ -259,10 +279,8 @@ taken as its phase lands:
 
 | Image | Shows | Lands in |
 |---|---|---|
-| `docs/screenshots/toast-glass.png` | The Acrylic glass effect | Phase 3 |
 | `docs/screenshots/tray-menu.png` | The tray icon and its menu | Phase 1 |
 | `docs/screenshots/settings-prayer.png` | Settings → Prayer, zone confirmation and source label | Phase 5 |
-| `docs/screenshots/animation-in.gif` | The in and out animations | Phase 3 |
 | `docs/screenshots/flow-reminder.gif` | Creating a reminder and seeing it fire | Phase 4 |
 
 Each screenshot is taken in both English and Malay before Phase 9 ships.

diff --git a/docs/CHANGELOG.md b/docs/CHANGELOG.md
@@ -15,6 +15,7 @@ Format: [Keep a Changelog](https://keepachangelog.com/en/1.1.0/) · Versioning:
 
 ### Changed
 
+- The README screenshots show Phase 3: every toast with its action row, a glass toast, Settings ▸ Appearance retaken and Settings ▸ Animation added in both languages, and two GIFs, slide from right and Genie from bottom, recorded from a release build; the Phase 3 rows of `docs/CHECKLIST.md` are written, with the checks left to the owner named.
 - Malay: the Dismiss button reads "Tutup" (close) instead of "Tolak" (reject), matching the spec (FEAT-0038).
 - Toast windows are painted in the app's own frame, and DWM composites their alpha, so whatever a toast leaves unpainted shows the desktop — the groundwork for glass and animations (FEAT-0029, ADR-016). They look exactly as before.
 - The app renders without vsync and paces its own frames, because with vsync each toast window waited for its own screen refresh and three toasts animated at 11–16 fps; release builds now animate at 137 fps or more (FEAT-0031, ADR-016).
